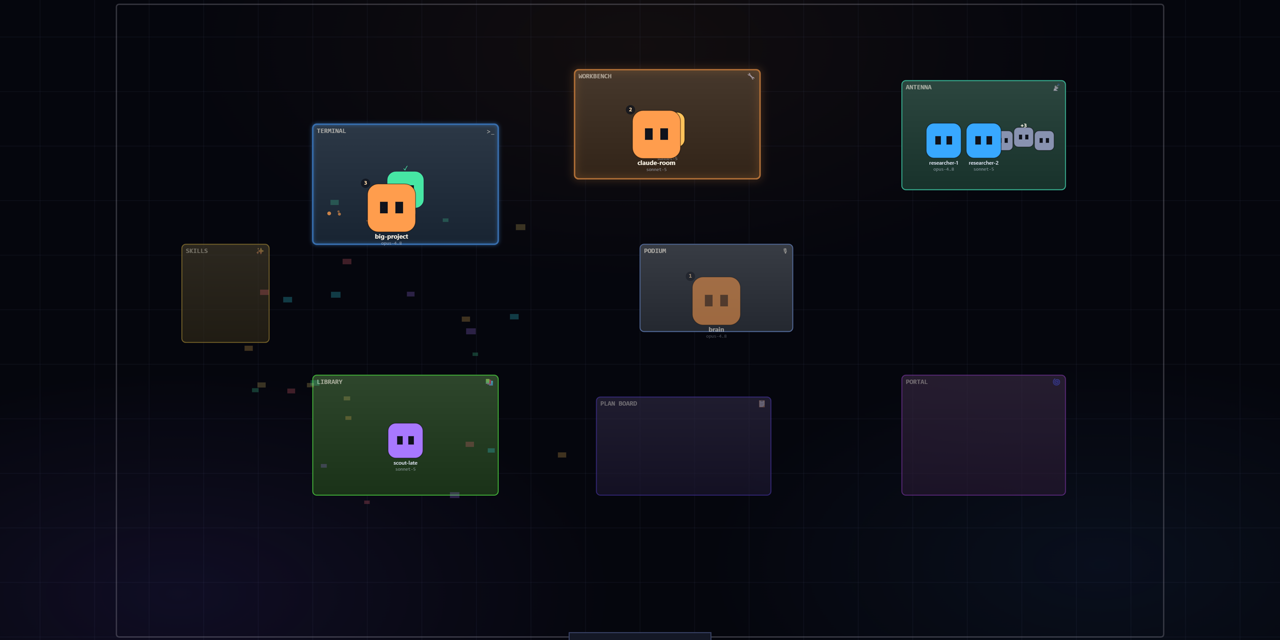
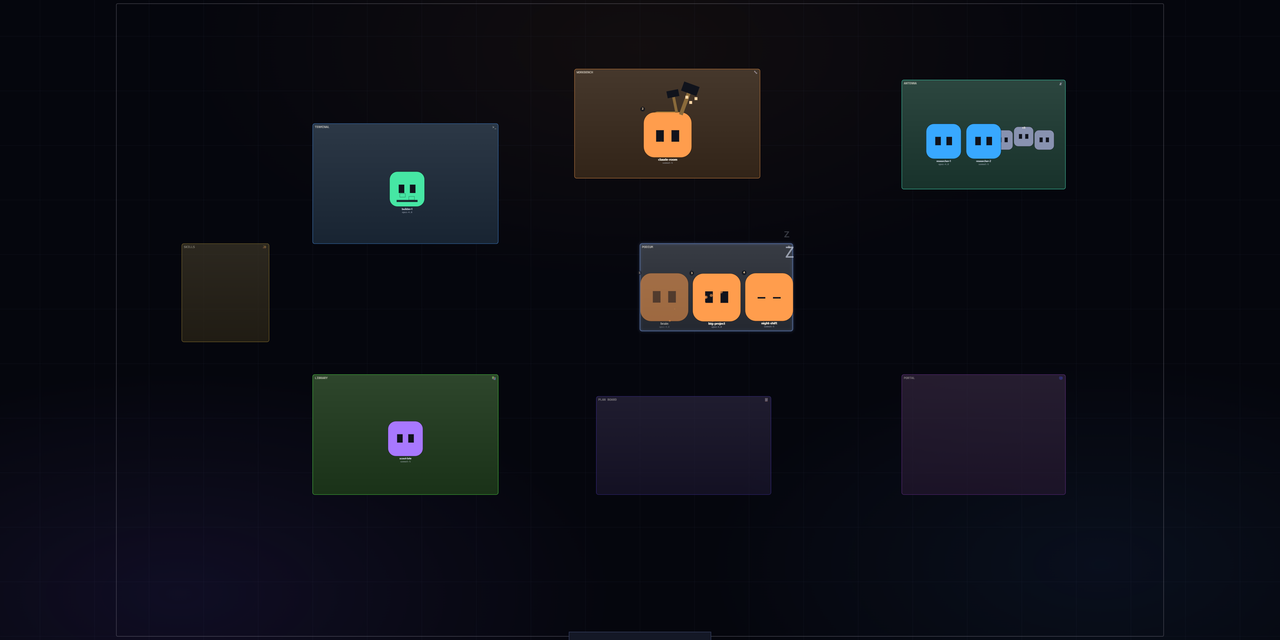
release: 0.2.0 — the room is alive
Version bump, README rewrite of the anim story, and refreshed visual
pack (hero, live gif, social preview) captured off the fixture with
the new work/sleep animations visible.

diff --git a/README.md b/README.md
@@ -7,8 +7,9 @@
 A live **pixel diorama of your Claude Code sessions**. Run one command and a
 little room opens in your browser: every running session is an orange pixel
 Claude at a bench, subagent swarms cluster by job in their own colours, and
-sprites walk between zones as the work happens — confetti when a job lands,
-a screen-shake when one fails.
+sprites walk between zones as the work happens — typing at the terminal,
+hammering at the workbench, dozing off under a drifting **Zzz** when you
+leave them idle. Confetti when a job lands, a screen-shake when one fails.
 
 ![the room, live](https://raw.githubusercontent.com/NAJEMWEHBE/claude-room/master/docs/hero.png)
 
@@ -44,14 +45,20 @@ a second monitor and watch your agents work.
   ![#46e6a4](https://img.shields.io/badge/-builder-46e6a4) ![#a878ff](https://img.shields.io/badge/-scout-a878ff) ![#ff6b7d](https://img.shields.io/badge/-reviewer-ff6b7d) ![#ffc25a](https://img.shields.io/badge/-tester-ffc25a) ![#38a8ff](https://img.shields.io/badge/-researcher-38a8ff) ![#e7c66a](https://img.shields.io/badge/-architect-e7c66a) ![#38e8ff](https://img.shields.io/badge/-helper-38e8ff)
 - **Crowd chips (+N)** — when a bench overflows, extra bodies fold into one
   honest per-zone counter.
+- **They actually work** — a sprite parked at a bench isn't frozen: it types
+  in bursts at the **TERMINAL** (screen flicker included), swings a hammer at
+  the **WORKBENCH** (sparks on impact), and does a busy little wiggle at every
+  other bench. Leave a session unprompted for 45 seconds and it dozes off at
+  the podium under drifting **Zzz** — your next prompt wakes it with a startle
+  before it hurries back to work.
 - **Toasts, confetti, shake** — a subagent finishing pops a ✓ toast and
   confetti; a failure gets a ✗ toast and shakes the floor. Work sparks fly at
   whichever bench is busy, and every model is readable at a glance under its
   sprite.
 - **Status bar** — the last tool call streaming in, live/session counts.
 
-Everything renders on one canvas with a dirty-flag frame loop: a settled or
-hidden room draws **zero frames**.
+Everything renders on one canvas with a dirty-flag frame loop: an empty or
+hidden room draws **zero frames**, and an occupied room idles at **≤6fps**.
 
 ### Options
 